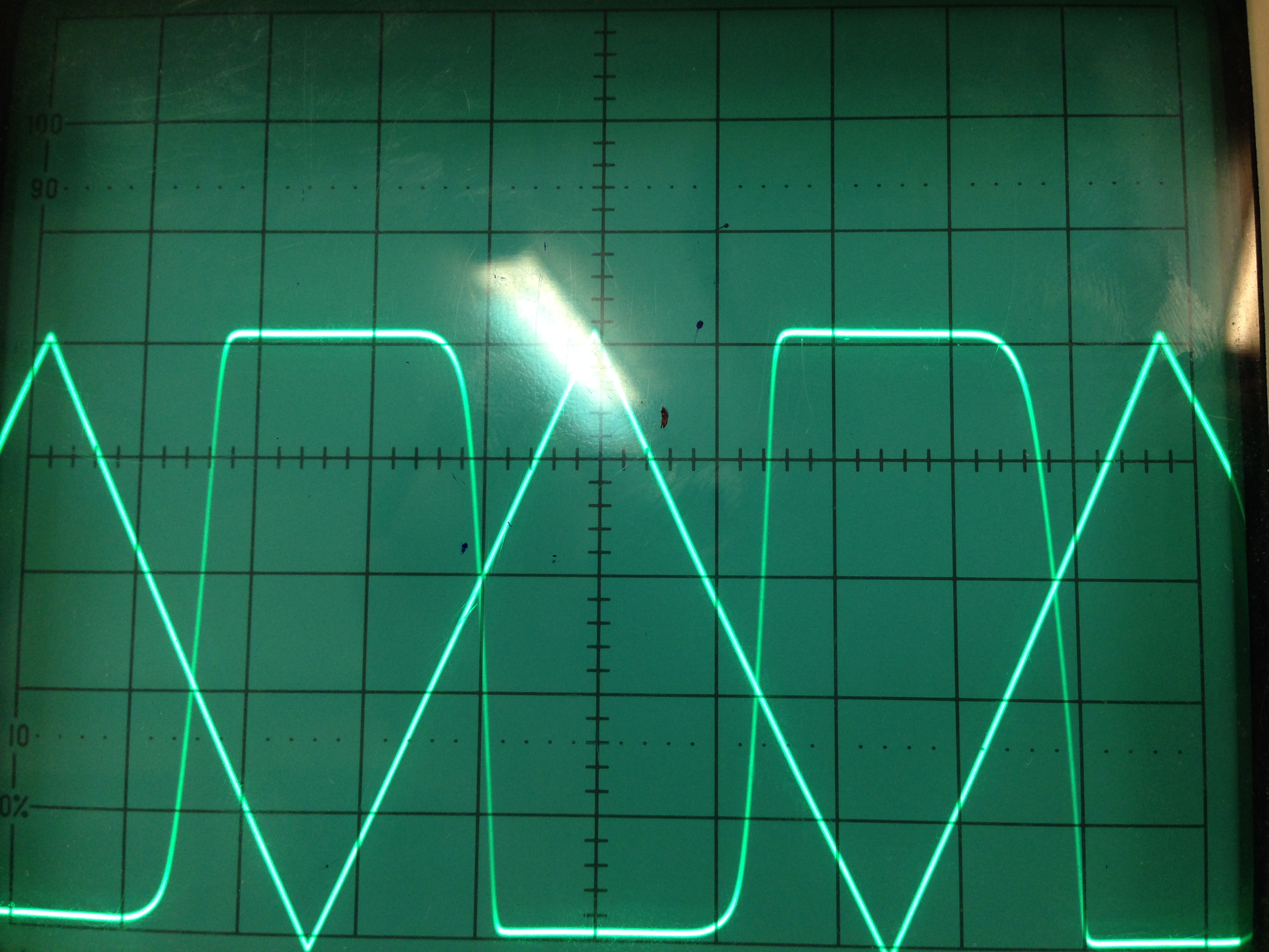
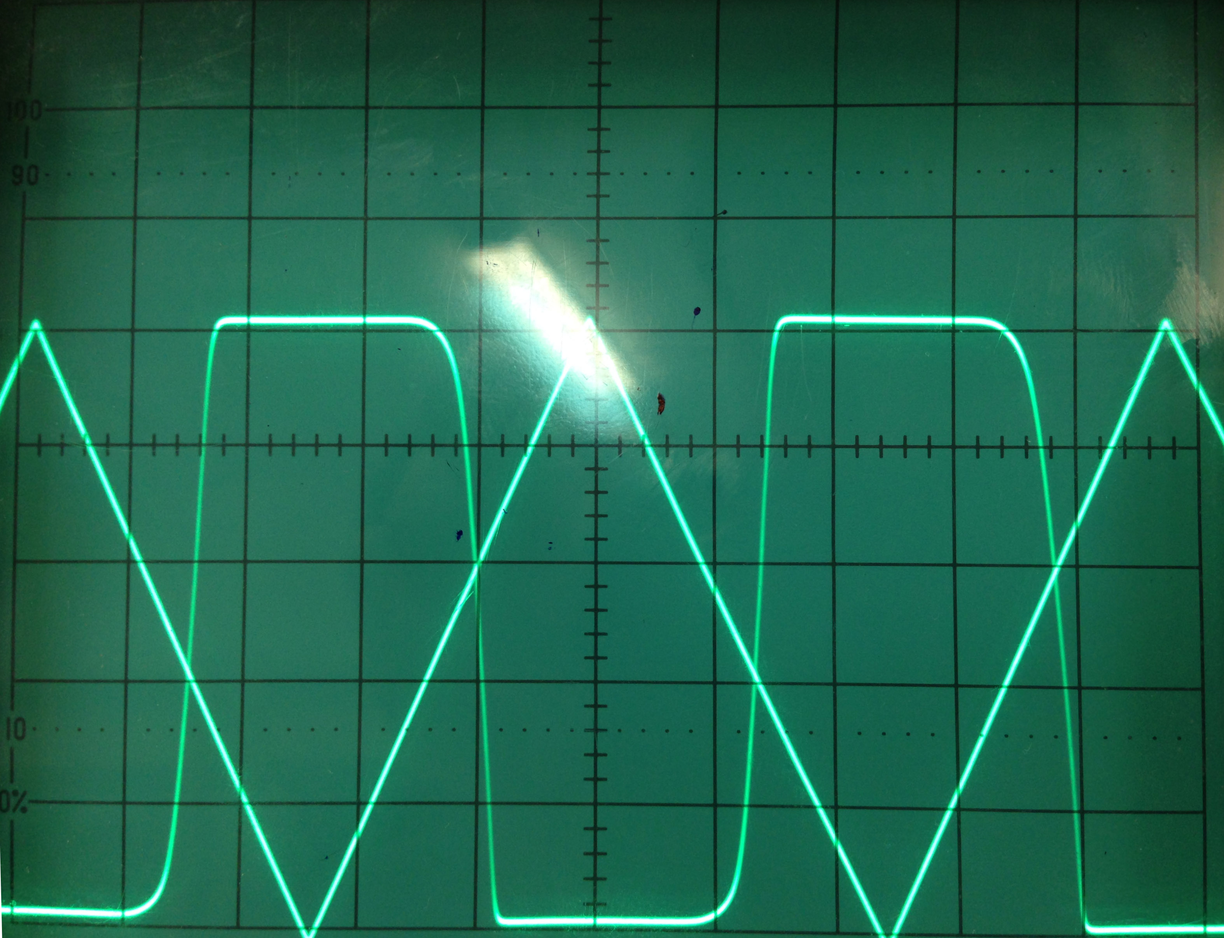
Alterações

Changed region(s): [[0.0, 0.0, 1.0, 1.0]]

diff --git a/Relatorio.tex b/Relatorio.tex
@@ -178,7 +178,7 @@ Se uma das entradas estiver a 0, a corrente vai fluir através dela baixando a t
 \newpage
 
 \begin{figure}[h]
-  \centerline{\fbox{\includegraphics[width=0.3\textwidth]{./Imagens/cmos_grafico.jpg}}}
+  \centerline{\fbox{\includegraphics[width=0.4\textwidth]{./Imagens/cmos_grafico.jpg}}}
   \caption{DIODOODO FALTAA!!! \\Vertical: 1V/div (ambos); Horizontal: 0,1ms/div (Time A)}\label{cmos}
 \end{figure}
 
@@ -199,11 +199,11 @@ No caso do BJT e NMOS quando $V_i$/$V_{in}$ é 1 lógico (+5V), há queda de ten
 
 \begin{figure}[!htb]
 \minipage{0.5\textwidth}
-  \centerline{\fbox{\includegraphics[width=0.5\textwidth]{./Imagens/BJT.jpg}}}
+  \centerline{\fbox{\includegraphics[width=0.8\textwidth]{./Imagens/BJT.jpg}}}
   \caption{\\Função lógica \\implementada pelo BJT. \\Vertical: 1V/div (ambos); \\Horizontal: 0,2ms/div (Time A)}\label{bjt}
 \endminipage\hfill
 \minipage{0.5\textwidth}
-  \centerline{\fbox{\includegraphics[width=0.5\textwidth]{Imagens/NMOS.jpg}}}
+  \centerline{\fbox{\includegraphics[width=0.8\textwidth]{Imagens/NMOS.jpg}}}
   \caption{\\Função lógica \\implementada pelo NMOS. \\Vertical: 1V/div (ambos); \\Horizontal: 0,2ms/div (Time A)}\label{fig:nmos}
 \endminipage\hfill
 \end{figure}
@@ -212,14 +212,14 @@ No caso do BJT e NMOS quando $V_i$/$V_{in}$ é 1 lógico (+5V), há queda de ten
 Para o PMOS quando $V_{in}$ é 0 lógico (0V), $V_{OUT}$ é igual a $V_{DD}$.
 
 \begin{figure}[h]
-  \centerline{\fbox{\includegraphics[width=0.3\textwidth]{./Imagens/pmos_grafico.jpg}}}
+  \centerline{\fbox{\includegraphics[width=0.5\textwidth]{./Imagens/pmos_grafico.jpg}}}
   \caption{Função lógica implementada pelo PMOS. \\Vertical: 1V/div (ambos); Horizontal: 0,1ms/div (Time A)}\label{cmos}
 \end{figure}
 
 No CMOS se o $V_{in}$ for igual a 0 lógico (0V), em $M_1$ deixa fluir corrente passando $V_{DD}$ e $M_2$ fica em corte, ficando portanto $V_{OUT}$ = $V_{DD}$.
 
 \begin{figure}[h]
-  \centerline{\fbox{\includegraphics[width=0.3\textwidth]{./Imagens/cmos_grafico.jpg}}}
+  \centerline{\fbox{\includegraphics[width=0.5\textwidth]{./Imagens/cmos_grafico.jpg}}}
   \caption{\\Função lógica implementada pelo CMOS. \\Vertical: 1V/div (ambos); Horizontal: 0,1ms/div (Time A)}\label{cmos}
 \end{figure}
 
@@ -227,29 +227,30 @@ No CMOS se o $V_{in}$ for igual a 0 lógico (0V), em $M_1$ deixa fluir corrente 
 \subsection{Voltage Transfer Characteristic (VTC) de cada um dos circuitos}
 \begin{figure}[!htb]
 \minipage{0.5\textwidth}
-  \centerline{\fbox{\includegraphics[width=0.5\textwidth]{./Imagens/BJT.jpg}}}
+  \centerline{\fbox{\includegraphics[width=0.8\textwidth]{./Imagens/BJT.jpg}}}
   \caption{\\VTC BJT FALTAAAA. \\Vertical: 1V/div (ambos); \\Horizontal: 0,2ms/div (Time A)}\label{bjt}
 \endminipage\hfill
 \minipage{0.5\textwidth}
-  \centerline{\fbox{\includegraphics[width=0.5\textwidth]{Imagens/nmos_vtc.jpg}}}
+  \centerline{\fbox{\includegraphics[width=0.8\textwidth]{Imagens/nmos_vtc.jpg}}}
   \caption{\\VTC NMOS \\Vertical: 1V/div ; \\Horizontal: 1V/div }\label{fig:nmos}
 \endminipage\hfill
 \end{figure}
 
 \begin{figure}[!htb]
 \minipage{0.5\textwidth}
-  \centerline{\fbox{\includegraphics[width=0.5\textwidth]{Imagens/pmos_vtc.jpg}}}
+  \centerline{\fbox{\includegraphics[width=0.8\textwidth]{Imagens/pmos_vtc.jpg}}}
   \caption{\\VTC PMOS \\Vertical: 1V/div ($V_{out}$); \\Horizontal: 1V/div ($V_{in}$)}
 \endminipage\hfill
 \minipage{0.5\textwidth}
-  \centerline{\fbox{\includegraphics[width=0.5\textwidth]{Imagens/cmos_vtc.jpg}}}
+  \centerline{\fbox{\includegraphics[width=0.8\textwidth]{Imagens/cmos_vtc.jpg}}}
   \caption{\\VTC CMOS \\Vertical: 1V/div ($V_{out}$); \\Horizontal: 1V/div ($V_{in}$)}
 \endminipage\hfill
 \end{figure}
 
+\newpage
 \subsection{Comparação dos VTC das quatro portas}
 Através das imagens acima, observa-se que a porta CMOS é a mais ideal na mudança do nível lógico. Ao contrário das outras portas, em que temos durante algum tempo zona de saturação na mudança de nível, no CMOS, esta alteração é repentina, daí ser a porta mais ideal. Esta situação é explicada pelo facto de que o CMOS é construído com base nas portas NMOS e PMOS, ou seja, quando um está a conduzir, o outro está em corte, sendo que apenas em  $\frac{V_{DD}}{2}$ ambas se encontram em saturação.
-\newpage
+
 \subsection{Medição e comparação do tempo de propagação de cada gate ligando um condensador}
 
 O tempo de propagação $t_p$ de uma porta digital indica a rapidez com que ela responde a uma mudança nas suas entradas. O atraso associado a uma mudança H $\rightarrow$ L na saída designa-se por $t_{pHL}$ e uma mudança de L $\rightarrow$ H é $t_{pLH}$. Então o $t_p$ é a media:
@@ -258,22 +259,22 @@ O tempo de propagação $t_p$ de uma porta digital indica a rapidez com que ela 
 
 \begin{figure}[!htb]
 \minipage{0.5\textwidth}
-  \centerline{\fbox{\includegraphics[width=0.5\textwidth]{./Imagens/cmos_com_condensador_grafico.jpg}}}
+  \centerline{\fbox{\includegraphics[width=0.8\textwidth]{./Imagens/cmos_com_condensador_grafico.jpg}}}
   \caption{\\Gráfico BJT com condensador  FALTA\\Vertical: 1V/div (ambos); \\Horizontal: 0,2ms/div (Time A)}\label{bjt}
 \endminipage\hfill
 \minipage{0.5\textwidth}
-  \centerline{\fbox{\includegraphics[width=0.5\textwidth]{Imagens/nmos_vtc.jpg}}}
+  \centerline{\fbox{\includegraphics[width=0.8\textwidth]{Imagens/nmos_vtc.jpg}}}
   \caption{\\Gráfico NMOS com condensador FALTA \\Vertical: 1V/div ; \\Horizontal: 1V/div }\label{fig:nmos}
 \endminipage\hfill
 \end{figure}
 
 \begin{figure}[!htb]
 \minipage{0.5\textwidth}
-  \centerline{\fbox{\includegraphics[width=0.5\textwidth]{./Imagens/pmos_grafico_condensador.jpg}}}
+  \centerline{\fbox{\includegraphics[width=0.8\textwidth]{./Imagens/pmos_grafico_condensador.jpg}}}
   \caption{\\Gráfico PMOS com condensador \\Vertical: 1V/div (ambos); \\Horizontal: 0,2ms/div (Time A)}\label{bjt}
 \endminipage\hfill
 \minipage{0.5\textwidth}
-  \centerline{\fbox{\includegraphics[width=0.5\textwidth]{Imagens/cmos_com_condensador_grafico.jpg}}}
+  \centerline{\fbox{\includegraphics[width=0.8\textwidth]{Imagens/cmos_com_condensador_grafico.jpg}}}
   \caption{\\Gráfico CMOS com condensador \\Vertical: 1V/div (ambos); \\Horizontal: 0,2ms/div (Time A) }\label{fig:nmos}
 \endminipage\hfill
 \end{figure}
